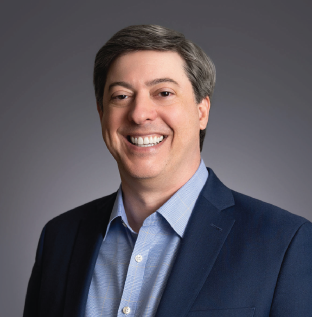
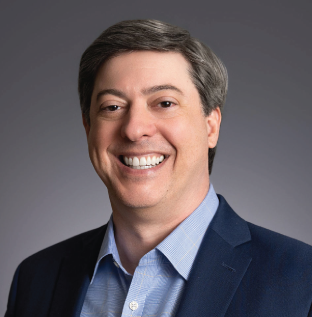
add contact and chair info

diff --git a/index.html b/index.html
@@ -159,6 +159,9 @@
             <li><strong>Full day schedule:</strong> Cluster's core program runs from 8:30am until 3:30pm, with VISion talks from 3:30-5pm, the IEEE VIS conference banquet at MIT Museum at 6pm, and a shared 8:00pm keynote with the <a href="https://visap.net/2026/">VISAP program</a> at the MIT Metropolitan Warehouse</li>
             <li><strong>Cost / registration:</strong> Details for one day, two day, and full conference costs on <a href="https://ieeevis.org/year/2026/info/registration-and-travel/conference-registration/">IEEE VIS's Registration Page</a></li>
           </ul>
+          <p><strong>Contact:</strong> <a href="mailto:pracitioners_summit@ieeevis.org">pracitioners_summit@ieeevis.org</a></p>
+          <div class="guests chairs"><img src="headshots/frank-elavsky.jpg" alt="A man with a mustache wearing a tan coat and round, dark green glasses smiling in front of a nice shopping street." loading="lazy"><img src="headshots/jonathan-schwabish.png" alt="A man in a navy suit and blue collared shirt smiling in front of a grey backdrop." loading="lazy"><img src="headshots/racquel-fygenson.png" alt="A woman in a black coat and silver earrings smiling on a beach at sunset." loading="lazy"></div>
+          <p>Chaired by <a href="https://www.frank.computer/" target="_blank" rel="noopener">Frank Elavsky</a>, <a href="https://policyviz.com/" target="_blank" rel="noopener">Jonathan Schwabish</a>, and <a href="https://racquelfygenson.com" target="_blank" rel="noopener">Racquel Fygenson</a>.</p>
           <div class="details-ctas">
             <a class="register" href="https://web.cvent.com/event/bfb61584-aa1d-46ed-9a2e-98101b7b86e4/summary">Register for VIS</a>
             <div class="details-ctas-small">

diff --git a/src/style.css b/src/style.css
@@ -505,3 +505,10 @@ p {
 .guests img.wide {
   aspect-ratio: auto;
 }
+
+/* chairs' headshots in Details: same treatment, smaller row */
+.guests.chairs {
+  max-width: 15rem;
+  margin-top: 1.5rem;
+  margin-bottom: 0.75rem;
+}
